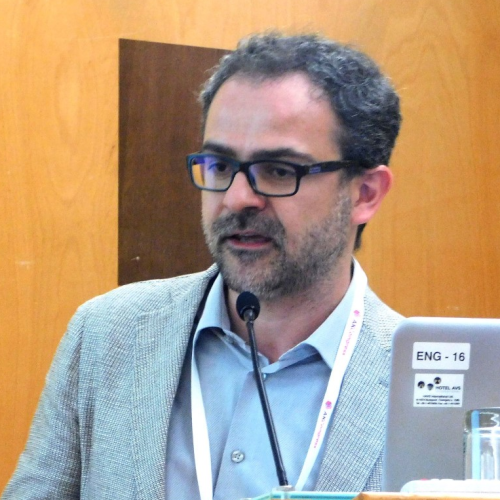
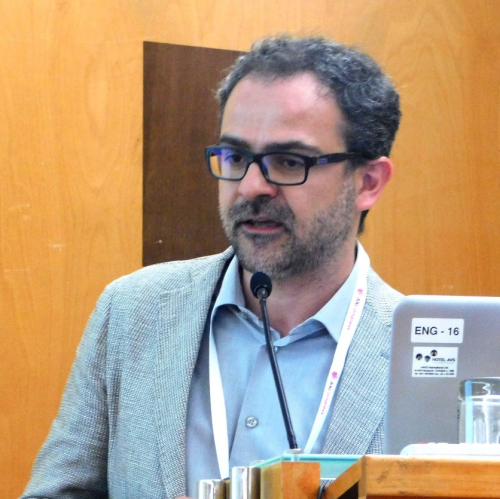
milani

diff --git a/index.html b/index.html
@@ -658,7 +658,7 @@
                 <!-- Team Item Starts -->
                 <div class="team-item wow fadeInUp" data-wow-delay="0.4s">
                   <div class="team-img">
-                    <img class="img-fluid" src="assets/img/team/MILANI0.png" alt="">
+                    <img class="img-fluid" src="assets/img/team/MILANI.png" alt="">
                     <div class="team-overlay">
                       <div class="overlay-social-icon text-center">
                         <ul class="social-icons">
